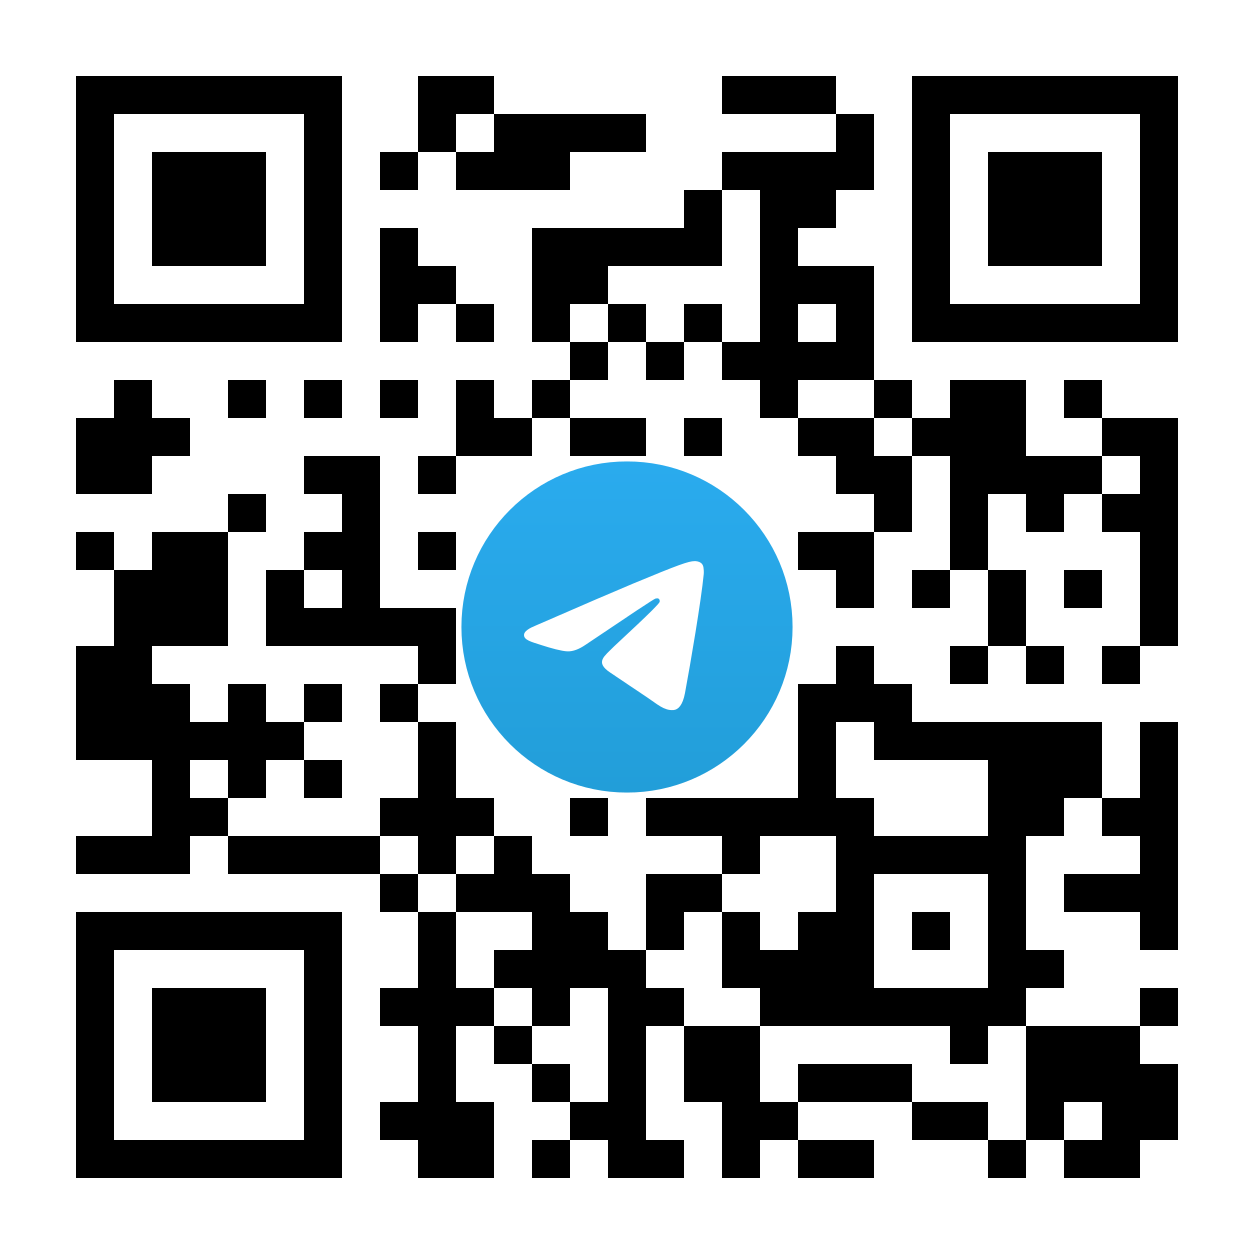
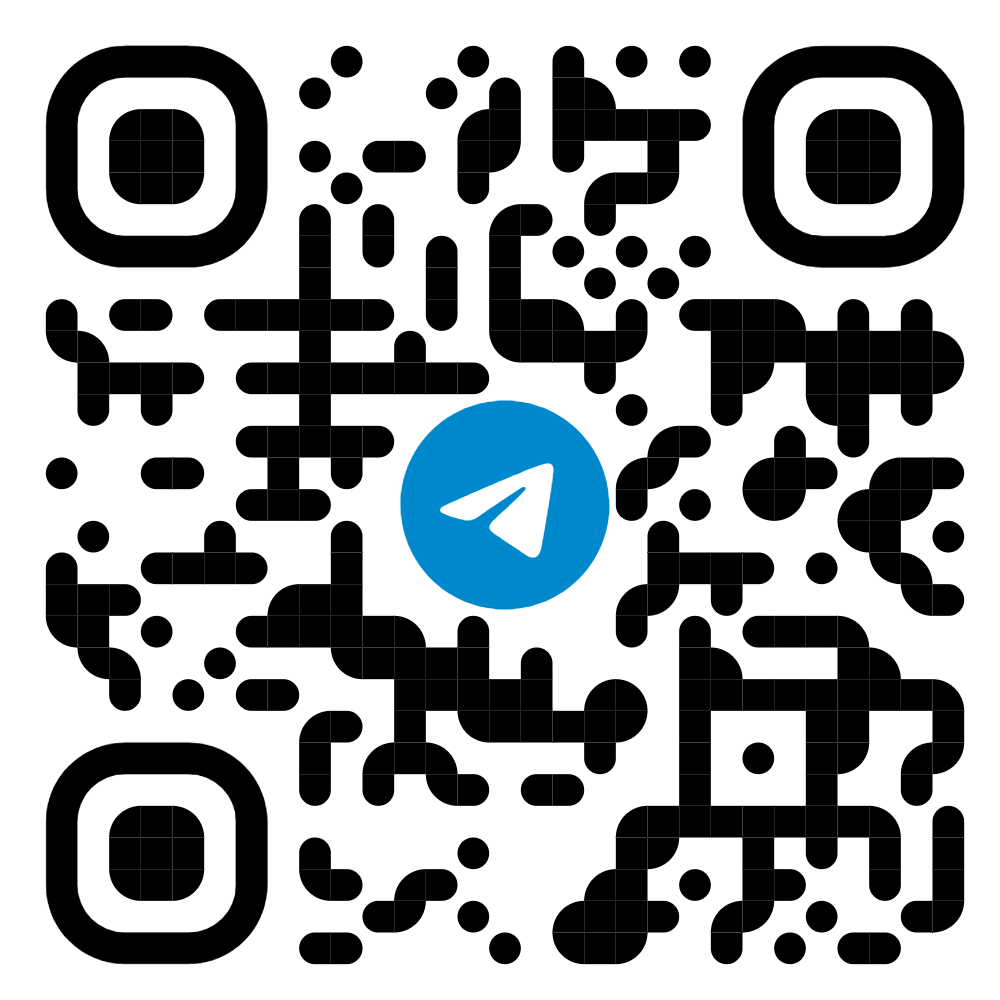
add bg and animation for desktop

diff --git a/src/components/ui/Circles.tsx b/src/components/ui/Circles.tsx
@@ -1,4 +1,5 @@
 import React, {useState, useEffect} from 'react';
+import {UseTg} from '../../hooks/useTg';
 
 interface Circle {
   size: number;
@@ -22,7 +23,9 @@ const generateRandomCircleData = (numCircles: number): Circle[] => {
 };
 
 const Circles = () => {
-  const [numCircles, setNumCircles] = useState(30);
+  const {user} = UseTg();
+  const circles: number = user?.id ? 50 : 30;
+  const [numCircles, setNumCircles] = useState(circles);
   const [circleData, setCircleData] = useState<Circle[]>([]);
 
   useEffect(() => {
@@ -30,11 +33,11 @@ const Circles = () => {
   }, [numCircles]);
 
   return (
-    <div className='background'>
+    <div className={user?.id ? 'background' : 'backround-desk'}>
       {circleData.map((circle, index) => (
         <div
           key={index}
-          className='circle'
+          className={user?.id ? 'circle' : 'circle-desk'}
           style={{
             width: `${circle.size}px`,
             height: `${circle.size}px`,

diff --git a/src/App.scss b/src/App.scss
@@ -23,7 +23,8 @@ body {
   font-family: 'Rubik', sans-serif;
 }
 
-.background {
+.background,
+.backround-desk {
   position: fixed;
   top: 0;
   left: 0;
@@ -32,18 +33,52 @@ body {
   z-index: -1000;
 }
 
-.circle {
+.backround-desk {
+  background-color: #dadada;
+}
+
+.tap {
+  margin-bottom: 10px;
+}
+
+.qr {
+  border-radius: 20px;
+  transition: transform 0.3s ease;
+
+  &:hover {
+    transform: scale(1.05);
+  }
+}
+
+.error {
+  width: 270px;
+  font-size: 22px;
+  font-weight: 400;
+  line-height: 30px;
+  color: #3d3d3d;
+}
+
+.circle,
+.circle-desk {
   position: absolute;
-  background-color: var(--text);
   border-radius: 50%;
   animation: move linear infinite;
   z-index: -1000;
+}
+
+.circle {
+  background-color: var(--text);
+}
+
+.circle-desk {
+  background-color: #3d3d3d;
 }
 
 @keyframes move {
   0% {
     transform: translateY(0) translateX(0);
   }
+
   100% {
     transform: translateY(-100vh) translateX(50vw);
   }

diff --git a/src/App.tsx b/src/App.tsx
@@ -25,16 +25,25 @@ const App = () => {
         </>
       ) : (
         <>
+          <div className='background'>
+            <Circles />
+          </div>
+
           <div className='main__load'>
             <a
-              className='main__load--link'
               href='https://t.me/yokross_bot'
               target='_blank'
               rel='noopener noreferrer'
             >
-              <img src={images.qr} alt='qr' width={560} height={560} />
+              <img
+                className='qr'
+                src={images.qr}
+                alt='qr'
+                width={300}
+                height={300}
+              />
             </a>
-            <p>💀 Данная версия доступна только в телеграме</p>
+            <p className='error'>Используй Telegram ;)</p>
           </div>
         </>
       )}

diff --git a/src/components/main/main.scss b/src/components/main/main.scss
@@ -13,14 +13,6 @@
     text-align: center;
 
     font-size: 32px;
-
-    &--link {
-      transition: transform 0.3s ease;
-
-      &:hover {
-        transform: scale(1.05);
-      }
-    }
   }
 
   &__close {
@@ -114,14 +106,6 @@
       max-width: 280px;
 
       margin-top: -40px;
-    }
-  }
-}
-
-@media (max-width: 992px) {
-  .main {
-    &__load {
-      font-size: 20px;
     }
   }
 }
